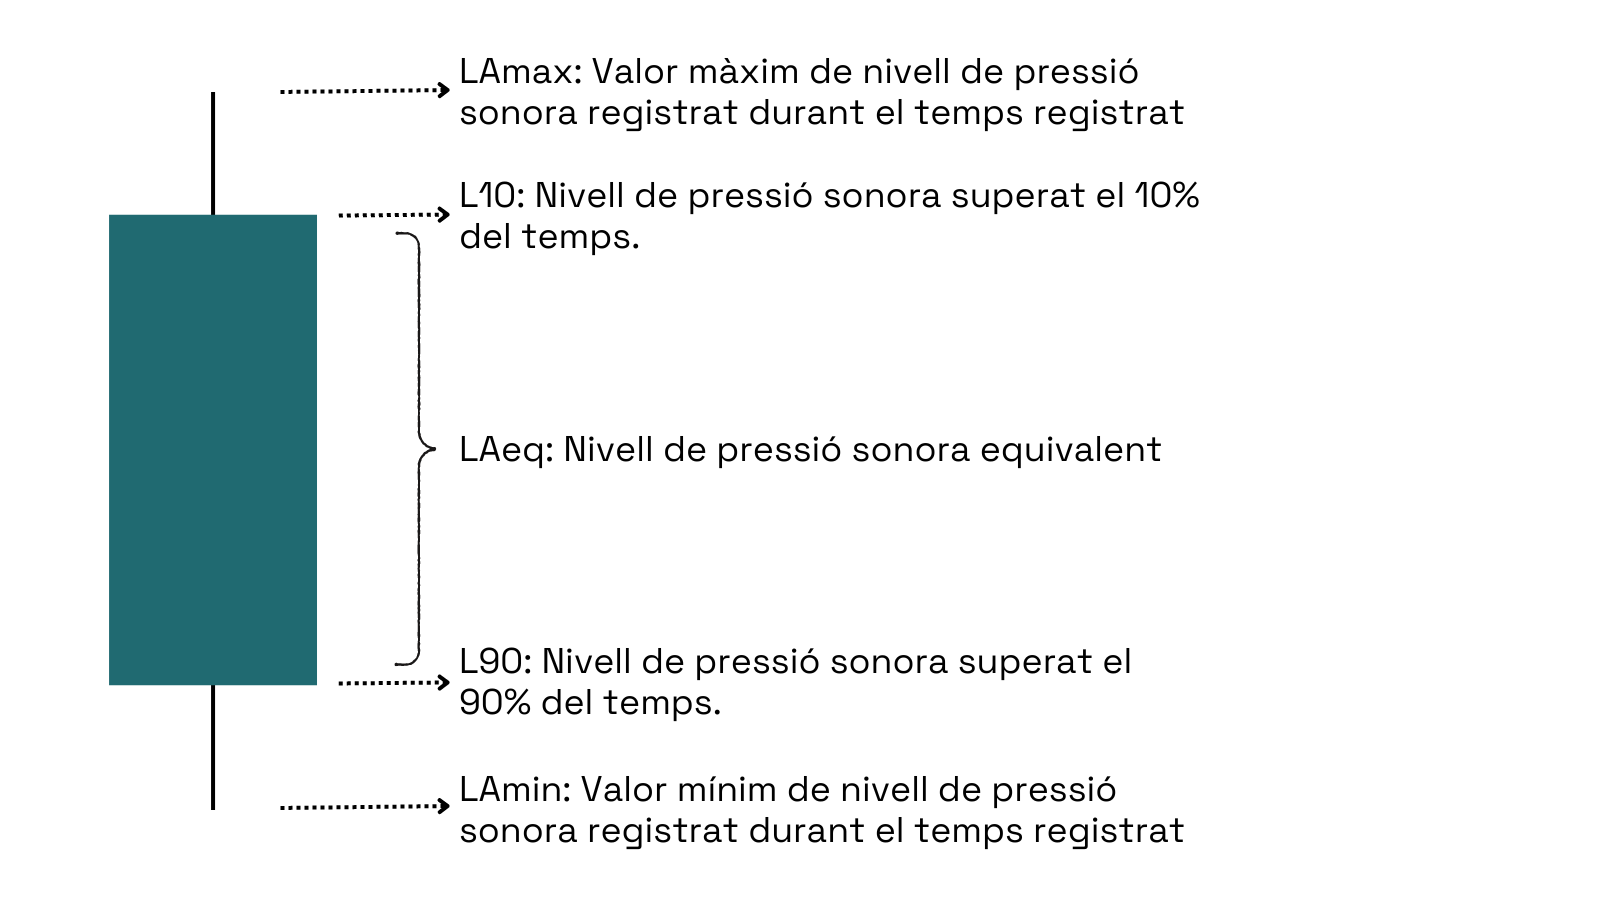
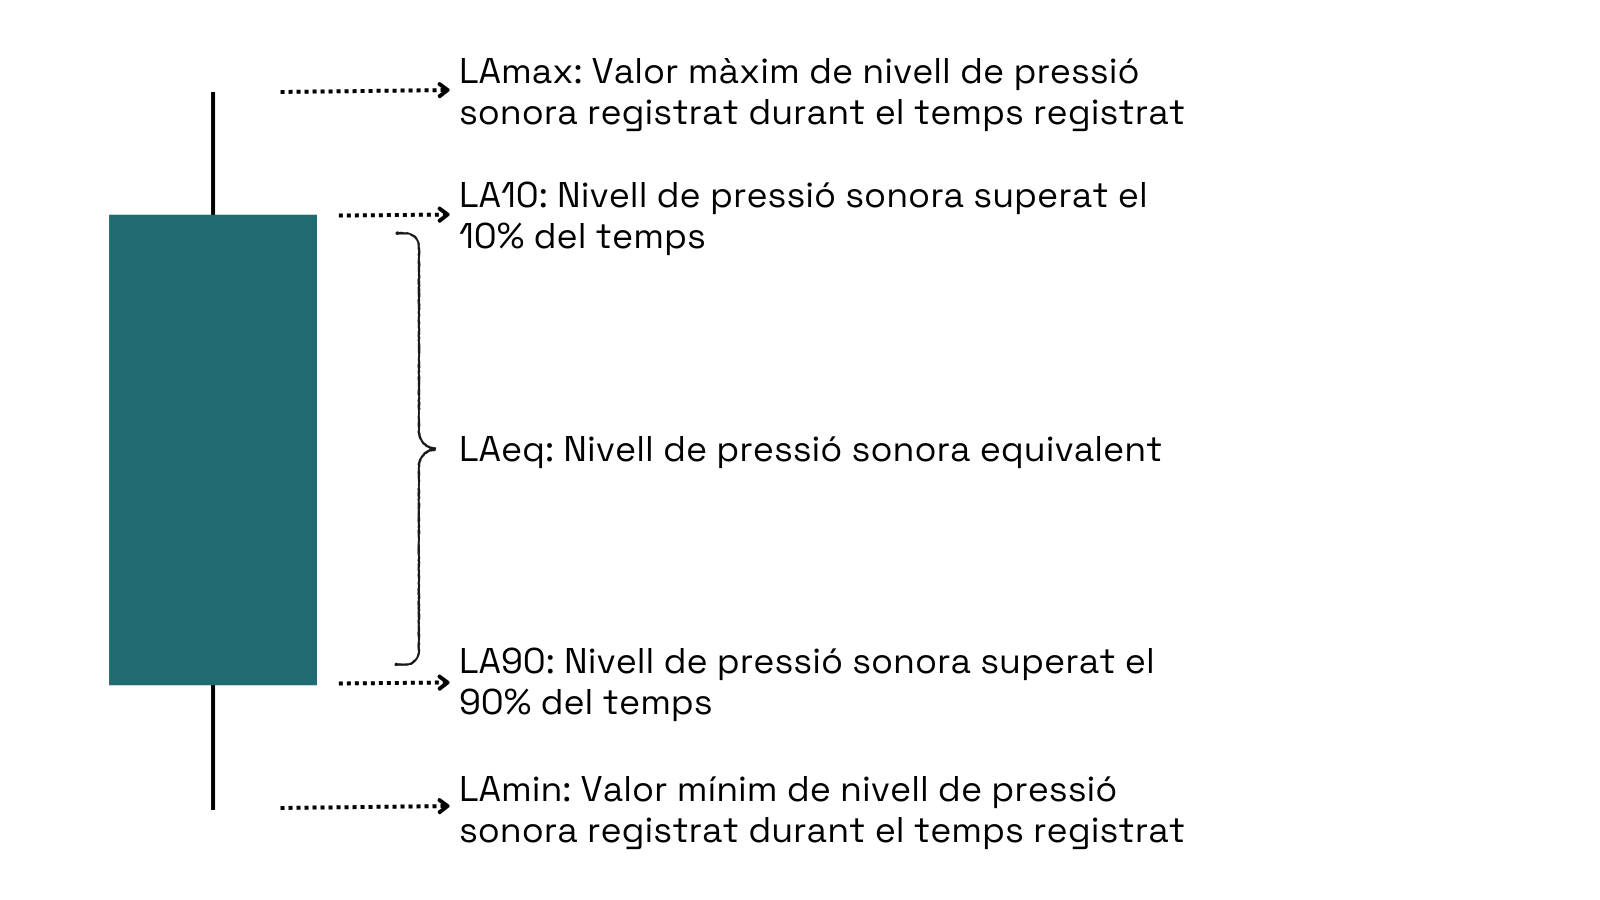
cambios de texto en catalán - WIP

Changed region(s): [[0.2812, 0.1867, 0.75, 0.28], [0.2812, 0.7156, 0.7188, 0.7467]]

diff --git a/src/app/modules/soundscape/components/survey-chart/survey-chart.component.ts b/src/app/modules/soundscape/components/survey-chart/survey-chart.component.ts
@@ -147,18 +147,18 @@ export class SurveyChartComponent implements OnInit, OnDestroy{
     // filtrar las observaciones de expertos
     let expertObservations = this.observations.filter(observation => observation.relationships.user.attributes.is_expert === true);
     
-    
+
     let survey = expertObservations.filter(observation => observation.attributes.calm !== "N/A" && observation.attributes.calm !== null).map(observation => 
       {
-      return [
-        Number(observation.attributes.pleasant),
-        Number(observation.attributes.calm),
-        Number(observation.attributes.vibrant),
-        Number(observation.attributes.chaotic),
-        Number(observation.attributes.uneventful),
-        Number(observation.attributes.annoying),
-        Number(observation.attributes.eventful),
-        Number(observation.attributes.monotonous),
+        return [
+          Number(observation.attributes.pleasant),
+          Number(observation.attributes.calm),
+          Number(observation.attributes.vibrant),
+          Number(observation.attributes.chaotic),
+          Number(observation.attributes.uneventful),
+          Number(observation.attributes.annoying),
+          Number(observation.attributes.eventful),
+          Number(observation.attributes.monotonous),
         ];
       }
     );

diff --git a/src/app/modules/home/page/home.component.html b/src/app/modules/home/page/home.component.html
@@ -3,7 +3,7 @@
   <div id="header" class="flex col-12">
     <div class="card w-full bg-color-green">
       <div class="col-12 flex justify-content-end">
-        <img id="logo" src="../../../../assets/images/home/header/logo-color-SC.png" title="SC_Logo_CAT" alt="SonsCat" loading="lazy">
+        <img id="logo" src="../../../../assets/images/home/header/logo-color-SC.png" title="SC_Logo_CAT" alt="sonsCAT" loading="lazy">
       </div>
       <div class="col-12">
         <h1>{{'home.header.wellcome' | translate}}</h1>
@@ -92,7 +92,7 @@
           <a [href]="'https://home.soundcollectapp.com/termes-i-condicion/'" [target]="'_blank'">{{'home.footer.legal.terms' | translate}}</a>
           <a [href]="'https://home.soundcollectapp.com/politica-de-cookies/'" [target]="'_blank'">{{'home.footer.legal.cookies' | translate}}</a>
           <a [href]="'https://home.soundcollectapp.com/politica-de-privacidad/'" [target]="'_blank'">{{'home.footer.legal.privacy' | translate}}</a>
-          <small class="mt-3">© {{ currentDate | date: 'yyyy' }} SonsCat - {{'home.footer.allRightsReserved' | translate}}.</small>
+          <small class="mt-3">© {{ currentDate | date: 'yyyy' }} sonsCAT - {{'home.footer.allRightsReserved' | translate}}.</small>
         </div>
 
       </div>

diff --git a/src/app/modules/soundscape/components/survey-chart/survey-chart.component.html b/src/app/modules/soundscape/components/survey-chart/survey-chart.component.html
@@ -2,7 +2,8 @@
   <h2>{{'soundscape.survey.title' | translate}}</h2>
   <app-info-modal [headerTitle]="'soundscape.survey.title' | translate">
     <div>
-      <p>{{'soundscape.survey.content' | translate}}</p>
+      <p>{{'soundscape.survey.content1' | translate}}</p>
+      <p>{{'soundscape.survey.content2' | translate}}</p>
     </div>
   </app-info-modal>
 </div>

diff --git a/src/index.html b/src/index.html
@@ -2,7 +2,7 @@
 <html lang="ca">
   <head>
     <meta charset="utf-8" />
-    <title>SonsCat - Dashboard</title>
+    <title>sonsCAT - Dashboard</title>
     <base href="/" />
     <meta name="viewport" content="width=device-width, initial-scale=1" />
     <link rel="icon" type="image/x-icon" href="favicon.ico" />

diff --git a/src/app/layout/components/menu/app.menu.component.html b/src/app/layout/components/menu/app.menu.component.html
@@ -6,7 +6,7 @@
         alt="logo"
         class="logo"
         style="width: 30px; border-radius: 7px">
-      <span class="menu-item"> SonsCat</span>
+      <span class="menu-item"> sonsCAT</span>
     </a>
   </li>
   <p-divider />

diff --git a/src/app/modules/soundscape/components/qualitative-data-chart/qualitative-data-chart.component.html b/src/app/modules/soundscape/components/qualitative-data-chart/qualitative-data-chart.component.html
@@ -13,6 +13,7 @@
       </ul>
 
       <p>{{'soundscape.qualitativeData.content2' | translate}}</p>
+      <p>{{'soundscape.qualitativeData.content3' | translate}}</p>
 
     </div>
   </app-info-modal>
